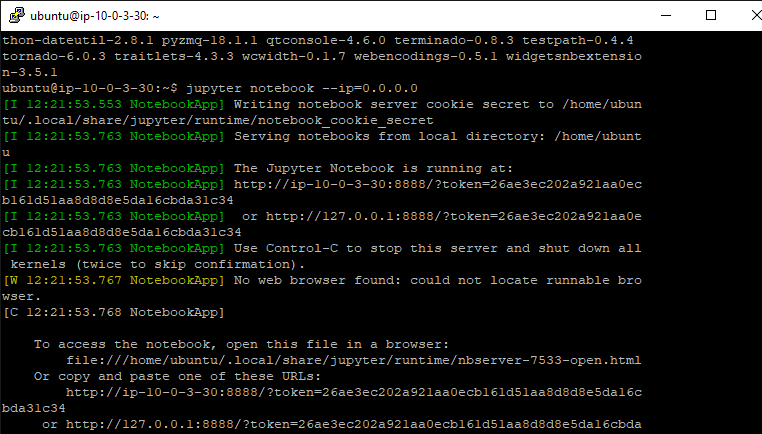
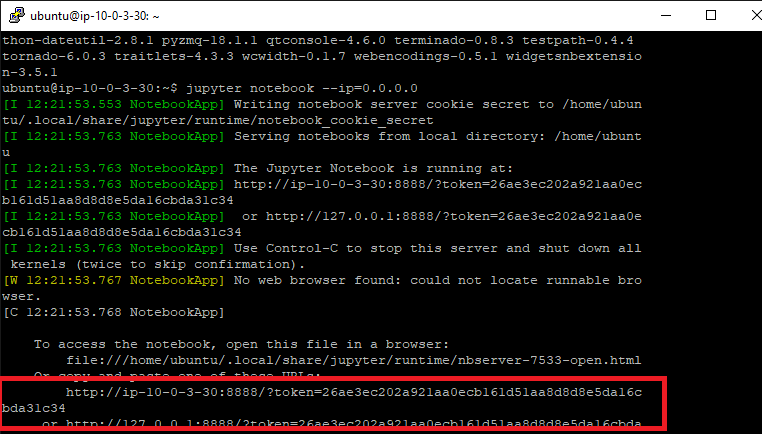
Update

Changed region(s): [[0.0, 0.8687, 0.8753, 1.0]]

diff --git a/Tutorials/Jupyter_server_Ubuntu.md b/Tutorials/Jupyter_server_Ubuntu.md
@@ -25,6 +25,9 @@ jupyter notebook --ip=0.0.0.0
 **Copy paste the given URL**  
 http://ip-10-10-10-10:8888/?token=.....  
 
+
+![Jupyter_token](https://github.com/Cyril-Basquin/AWS/blob/master/Tutorials/Images/ubuntu_jupyter_get_token.png)
+
 Paste it in your browser  
 
 Change the IP with the one of your EC2  

diff --git a/Tutorials/AWS_Architecture_Basics_VPC.md b/Tutorials/AWS_Architecture_Basics_VPC.md
@@ -8,7 +8,7 @@ Fast Start of an AWS VPC
 + Create an IG
 + Attach it to your VPC
 
-3. Create a subnet (or 2: 1 public and 1 private)
+3. Create a subnet
 + Name it comprehensively (Public_Subnet)
 + Link it to an existing VPC
 + Choose a Availability Zone (AZ)
